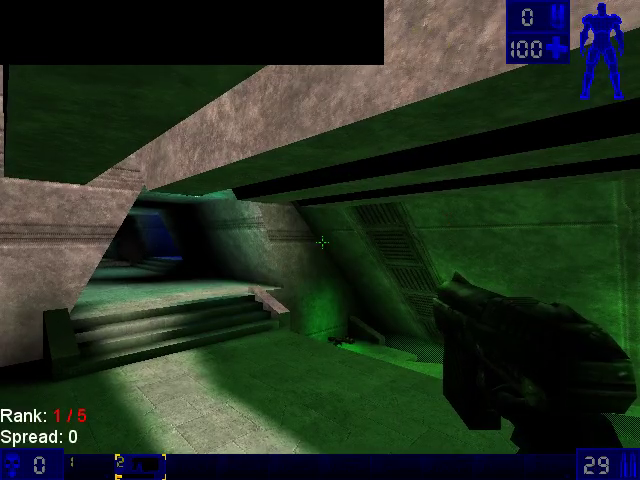
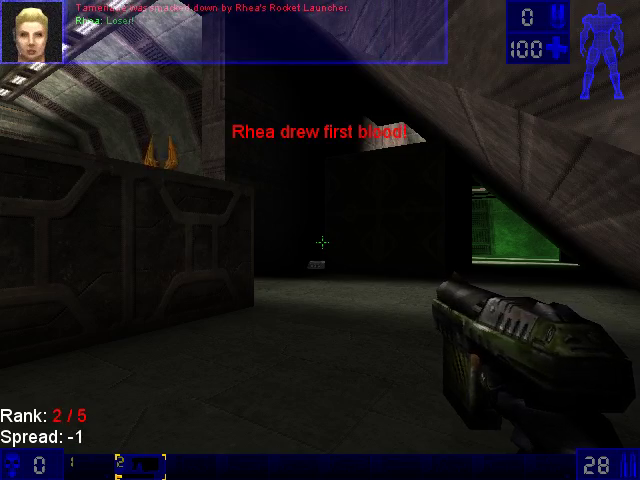
Draw the HUD's translucent panels; count instructions lifted as nothing
The HUD's black box was the speech area, translucent in the original:
SoftDrv blends with MMX paddusb, which lifted as a no-op (pcrecomp#61).
Found by DrawTile alone lifted in a native SoftDrv, against a recording
of the original in the same match (tools/click_original.py).
run_lift.py now reports every UNIMPLEMENTED instruction per module.

diff --git a/run_lift.py b/run_lift.py
@@ -19,6 +19,7 @@ disassembler pass names them, and an unresolved slot answers eax = 0.
 import argparse
 import json
 import os
+import re
 import shutil
 import sys
 import time
@@ -81,7 +82,7 @@ def lift_module(name, split):
     os.makedirs(out)
     starts = {a for a in byaddr if byaddr[a].get('entry_kind') != 'alias'}
     starts -= find_splits(md, code, cs, ce, starts)   # still dispatchable, just not a wall
-    entries, chunk, idx, errors, dirty, ehs = [], [], 0, 0, 0, 0
+    entries, chunk, idx, errors, dirty, ehs, unimpl = [], [], 0, 0, 0, 0, {}
     # Where a function resumes after its own catch blocks. Nothing branches
     # there (the catch funclet returns the address), so the catalog often
     # starts a function at it and the parent's body stops short: the resume
@@ -124,6 +125,8 @@ def lift_module(name, split):
             except Exception as e:                  # noqa: BLE001 -- counted, not hidden
                 body = '/* ERROR %s: %s */\nvoid %s(void) { }\n' % (fname, e, fname)
                 errors += 1
+            for m in re.findall(r'UNIMPLEMENTED: (\w+)', body):   # lifted as a no-op: says so
+                unimpl[m] = unimpl.get(m, 0) + 1
             chunk.append((body, addr, fname))
             entries.append(addr)
             if len(chunk) >= split:
@@ -139,8 +142,10 @@ def lift_module(name, split):
     json.dump(sorted(entries), open(os.path.join(WORK, name + '.entries.json'), 'w'))
     print('    %s: lifted %d (+%d outside the catalog), errors %d, no terminator %d, %d catch, %d files'
           % (name, len(entries), added, errors, dirty, ehs, idx), flush=True)
+    if unimpl:
+        print('      unimplemented: ' + ' '.join('%s %d' % kv for kv in sorted(unimpl.items(), key=lambda kv: -kv[1])))
     return {'lifted': len(entries), 'added': added, 'errors': errors, 'no_terminator': dirty,
-            'catch': ehs, 'files': idx}
+            'catch': ehs, 'files': idx, 'unimplemented': unimpl}
 
 
 def write_tables():
@@ -184,8 +189,9 @@ def main():
     json.dump(stats, open(stats_path, 'w'), indent=1)
     n = write_tables()
     print('=' * 60)
-    print('  %d functions in the dispatch table, lift errors %d, %.0fs'
-          % (n, sum(s['errors'] for s in stats.values()), time.time() - t0))
+    print('  %d functions in the dispatch table, lift errors %d, unimplemented instructions %d, %.0fs'
+          % (n, sum(s['errors'] for s in stats.values()),
+             sum(sum(s.get('unimplemented', {}).values()) for s in stats.values()), time.time() - t0))
     print('=' * 60)
 
 

diff --git a/tools/click_original.py b/tools/click_original.py
@@ -1,0 +1,52 @@
+#!/usr/bin/env python3
+"""Scripted clicks into the original game, for reference recordings.
+
+The recompiled host scripts input itself (`--key fire@S`); the original has no
+such switch, so this posts the same mouse clicks to its window, found by its
+title. Start it, then the original under offstage (which keeps only the
+program it starts, and that program's windows, on its virtual monitor):
+
+    start py -3 tools\\click_original.py 14 17 20
+    offstage run --size 1280x720 --record ref.mp4 -- work\\ref\\System\\UnrealTournament.exe "DM-Deck16][?game=Botpack.DeathMatchPlus?numbots=4"
+
+Times are seconds from when the window first appears; the game is closed
+--stay seconds (default 30) after the last click.
+"""
+import ctypes
+import sys
+import time
+
+user32 = ctypes.windll.user32
+WM_LBUTTONDOWN, WM_LBUTTONUP, WM_CLOSE, MK_LBUTTON = 0x201, 0x202, 0x10, 1
+
+
+def main():
+    argv = sys.argv[1:]
+    stay = 30.0
+    if argv[:1] == ['--stay']:
+        stay, argv = float(argv[1]), argv[2:]
+    clicks = [float(a) for a in argv]
+    hwnd = None
+    for _ in range(600):
+        hwnd = user32.FindWindowW(None, 'Unreal Tournament')
+        if hwnd:
+            break
+        time.sleep(0.1)
+    if not hwnd:
+        sys.exit('no Unreal Tournament window')
+    t0 = time.time()
+    for at in clicks:
+        time.sleep(max(0, t0 + at - time.time()))
+        r = (ctypes.c_long * 4)()
+        user32.GetClientRect(hwnd, r)
+        pos = (r[3] // 2) << 16 | (r[2] // 2)
+        user32.PostMessageW(hwnd, WM_LBUTTONDOWN, MK_LBUTTON, pos)
+        time.sleep(0.05)
+        user32.PostMessageW(hwnd, WM_LBUTTONUP, 0, pos)
+        print('[click] %.1f s' % (time.time() - t0), flush=True)
+    time.sleep(max(0, t0 + (clicks[-1] if clicks else 0) + stay - time.time()))
+    user32.PostMessageW(hwnd, WM_CLOSE, 0, 0)
+
+
+if __name__ == '__main__':
+    main()

diff --git a/tools/disasm_at.py b/tools/disasm_at.py
@@ -1,0 +1,25 @@
+#!/usr/bin/env python3
+"""Disassemble a module's code at a VA, following a leading jmp thunk.
+
+    py -3 tools/disasm_at.py SoftDrv.dll 0x10D0109B [count]
+"""
+import os
+import sys
+
+import capstone
+import pefile
+
+ROOT = os.path.dirname(os.path.dirname(os.path.abspath(__file__)))
+pe = pefile.PE(os.path.join(ROOT, 'work', 'rebased', sys.argv[1]))
+va, n = int(sys.argv[2], 16), int(sys.argv[3]) if len(sys.argv) > 3 else 80
+base = pe.OPTIONAL_HEADER.ImageBase
+md = capstone.Cs(capstone.CS_ARCH_X86, capstone.CS_MODE_32)
+code = lambda a: pe.get_data(a - base, 0x4000)
+first = next(md.disasm(code(va), va))
+if first.mnemonic == 'jmp' and first.op_str.startswith('0x'):
+    print('; thunk -> ' + first.op_str)
+    va = int(first.op_str, 16)
+for i, ins in enumerate(md.disasm(code(va), va)):
+    if i >= n:
+        break
+    print('%08X  %-8s %s' % (ins.address, ins.mnemonic, ins.op_str))

diff --git a/README.md b/README.md
@@ -22,10 +22,10 @@ target first, and a different route to the same game.
 |---|---|
 | P0: pick the build | Steam v436 (app 13240): `UnrealTournament.exe` wrapped in SteamStub 2.0, unwrapped statically; 12 DLLs, four rebased to fit ([RECON.md](docs/RECON.md)) |
 | Function catalog (`tools/catalog.py`) | ~37,000 functions across 14 modules, 65-95% of each `.text`; no RTTI in this build, exports seed it |
-| Lift (`run_lift.py`) | 38,674 functions, every module, **0 lift errors**; guest C++ exceptions caught and resumed (pcrecomp eh32) |
+| Lift (`run_lift.py`) | 38,674 functions, every module, **0 lift errors**; guest C++ exceptions caught and resumed (pcrecomp eh32); instructions lifted as nothing are counted, and only Galaxy's SSE/3DNow! mixers have any that run |
 | Host (`build/ut99.exe`, 32-bit, pcrecomp `native32`) | maps every module at its base, binds guest-to-guest imports to lifted exports, runs each DLL's `DllMain` when the game loads it |
 | Dedicated server (`--ucc -- server`) | **runs**: DM-Deck16][ up for play, the UnrealScript VM ticking, the query port answering (`tools/query.py`) ([bringup.md](docs/bringup.md)) |
-| The game (`UnrealTournament.exe`, SoftDrv) | **plays**: the intro flyby as the original renders it, the main menu (UWindow), and a Deathmatch on DM-Deck16][ with four bots fighting, taunting and scoring, about 50 fps, driven by `--key` ([bringup.md](docs/bringup.md) 7-15). Known: a black box in the HUD's top-left |
+| The game (`UnrealTournament.exe`, SoftDrv) | **plays**: the intro flyby as the original renders it, the main menu (UWindow), and a Deathmatch on DM-Deck16][ with four bots fighting, taunting and scoring, about 50 fps, driven by `--key` ([bringup.md](docs/bringup.md) 7-16); the HUD matches the original's |
 | Headless mode | `--headless --record out.mp4 --frames N`: no window on any screen, the game's frames to ffmpeg at 30 fps; the game itself runs at about 55 fps in the software renderer |
 | Conformance harness | not yet |
 
@@ -141,8 +141,9 @@ trace options (`build\ut99.exe --help`).
 Steps 5 and 6 above. `PCRECOMP` (environment, for the Python tools) and
 `-DPCRECOMP=` (CMake) point at a toolkit checkout other than `..\tools`; the
 lifter and the runtime must come from the same tree. Until they merge, the
-toolkit needs seven pcrecomp branches, merged in one tree, the last being
-`fix/native32-bridge-callee-clobbers` (#59):
+toolkit needs eight pcrecomp branches, merged in one tree:
+`fix/native32-bridge-callee-clobbers` (#59), `feat/lift32-mmx-byte-ops`
+(translucency in the software renderer, #61),
 `feat/steamstub-2.0` (the launcher's DRM, pcrecomp#52), `feat/eh32` (guest
 C++ exceptions, #53), `feat/disasm32-nop-padded-entries` (a missed static
 constructor, #54), `feat/native32-x87-crt` (`_ftol` and friends, #56),

diff --git a/docs/bringup.md b/docs/bringup.md
@@ -300,5 +300,43 @@ taunting and scoring (2,422 frames drawn in 50 s):
 
 ![The scoreboard](screenshots/dm-deck16-scores.png)
 
-Known: a black box in the HUD's top-left, where the original draws nothing
-(a translucent or masked element drawn opaque).
+## 16. The HUD's black box: an MMX op lifted as nothing
+
+The HUD's top-left was a solid black box for most of a match. A reference
+run of the original, in the same match, says what belongs there: the speech
+area, a translucent panel (the world shows through it) with the speaking
+bot's face. The original runs windowed on an offstage monitor;
+`tools/click_original.py` posts it the same clicks `--key fire@S` gives the
+recompiled game:
+
+```
+start py -3 tools\click_original.py 14 17 20
+offstage run --size 1280x720 --record ref.mp4 -- work\ref\System\UnrealTournament.exe "DM-Deck16][?game=Botpack.DeathMatchPlus?numbots=4"
+```
+
+Botpack.u carries its UnrealScript source, and `ChallengeHUD.DrawSpeechArea`
+draws the panel every frame, `STY_Translucent`, in `HUDColor *
+MessageFadeTime`: with no message showing, translucent black, which adds
+nothing. Ours drew it opaque, so black.
+
+`--native SoftDrv.dll` made the box go away; SoftDrv native with only
+`DrawTile` lifted (`--lift-in-native`, one address) brought it back. Its
+translucent span loop is one MMX instruction per pixel, `paddusb mm1, mm2`
+(texel plus screen, each channel stopping at 255), and the lift had it as
+
+```c
+; /* UNIMPLEMENTED: paddusb mm1, mm2 */
+```
+
+so the texel was stored alone. lift32 had MMX's word and dword ops but not
+its byte or unsigned-saturating ones: 6,801 `paddusb` sites in SoftDrv, all
+silent, and the lift still said 0 errors. pcrecomp `feat/lift32-mmx-byte-ops`
+adds those thirteen, and `run_lift.py` now prints every instruction lifted as
+nothing, per module. What is left is Galaxy's SSE and 3DNow! mixers, and a
+few decodes of data (`das`, `arpl`, `bound`) that never run.
+
+The original, then the recompiled game, both at a bot's first frag:
+
+| | |
+|---|---|
+| ![The original](screenshots/original-dm-hud.png) | ![Recompiled](screenshots/dm-deck16-hud.png) |

diff --git a/CHANGELOG.md b/CHANGELOG.md
@@ -6,6 +6,14 @@ versions follow [SemVer](https://semver.org/).
 ## [Unreleased]
 
 ### Added
+- Translucency in the software renderer: the HUD's speech area is the
+  original's translucent panel, not a black box. SoftDrv's span loops blend
+  with MMX `paddusb`, which lifted as nothing (pcrecomp#61). `run_lift.py`
+  counts every instruction lifted as nothing, per module
+  (docs/bringup.md 16).
+- `tools/click_original.py`: scripted clicks into the original game, for
+  reference recordings under offstage; `tools/disasm_at.py`: a module's code
+  at a VA, past its incremental-link thunk.
 - The pipeline for the Steam build (v436): `tools/rebase.py` unwraps the
   SteamStub 2.0 launcher (needs pcrecomp `feat/steamstub-2.0`) and moves the
   four DLLs whose linked bases collide; `tools/catalog.py` runs disasm32 on

diff --git a/ROADMAP.md b/ROADMAP.md
@@ -13,8 +13,9 @@ In order; each is done when its check is in the harness or the docs.
 3. **Headless and `--record`**: done (docs/bringup.md 10), and the README's
    screenshots come from it; `--key` scripts input.
 4. **A match played**: Deathmatch against bots, scripted: done (docs/bringup.md
-   15). Next: a match to its frag limit, a map change, CTF, and the HUD's black
-   box.
+   15), the HUD as the original draws it (16). Next: a match to its frag
+   limit, a map change, CTF; Galaxy's SSE and 3DNow! mixer paths, still
+   lifted as nothing (sound is not checked yet).
 5. **Interactive play**: a live window with mouse look (WinDrv's captured
    mouse), which the presenter will own.
 6. **Conformance harness** (`tools/conformance.py`): boot milestones and lift
